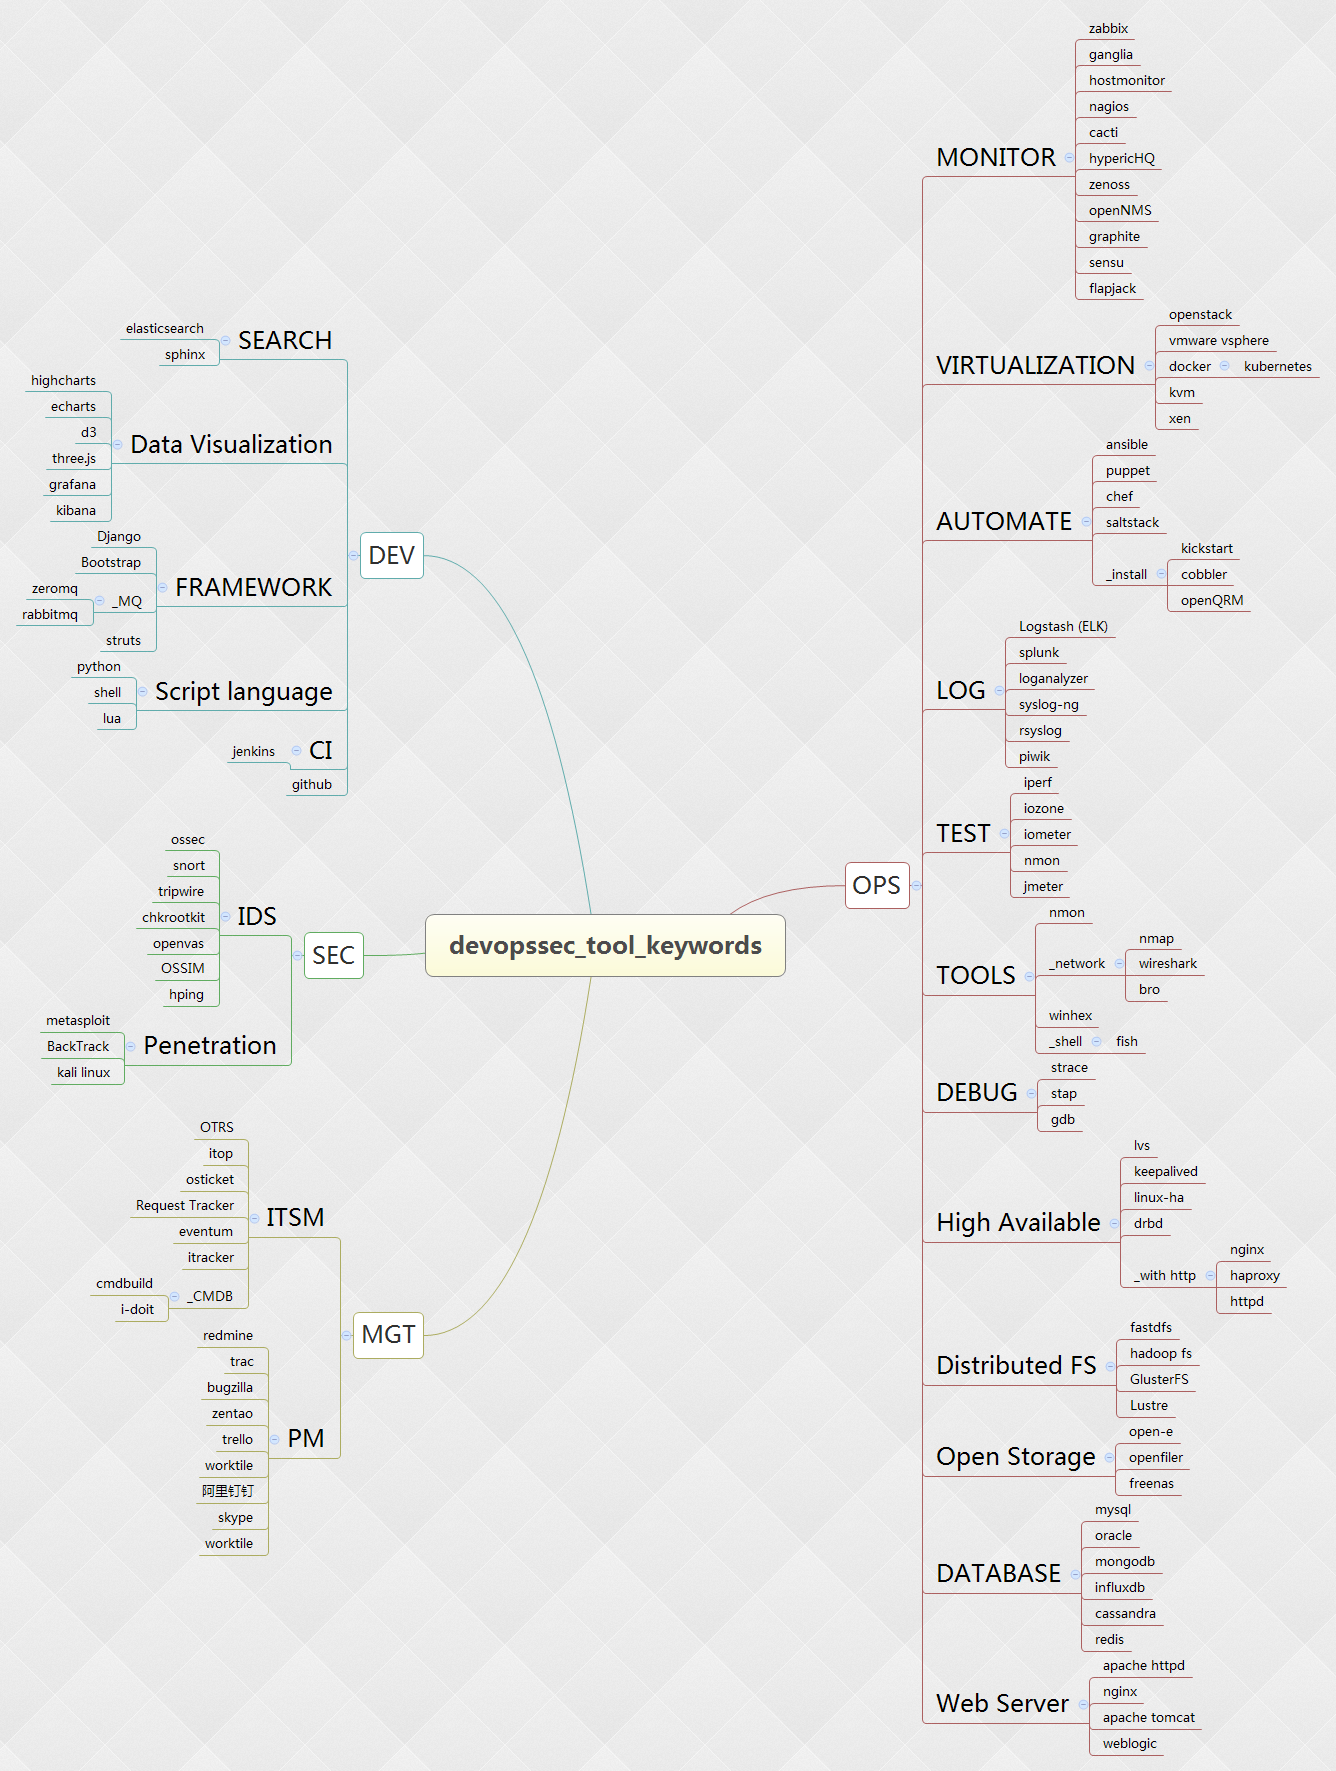
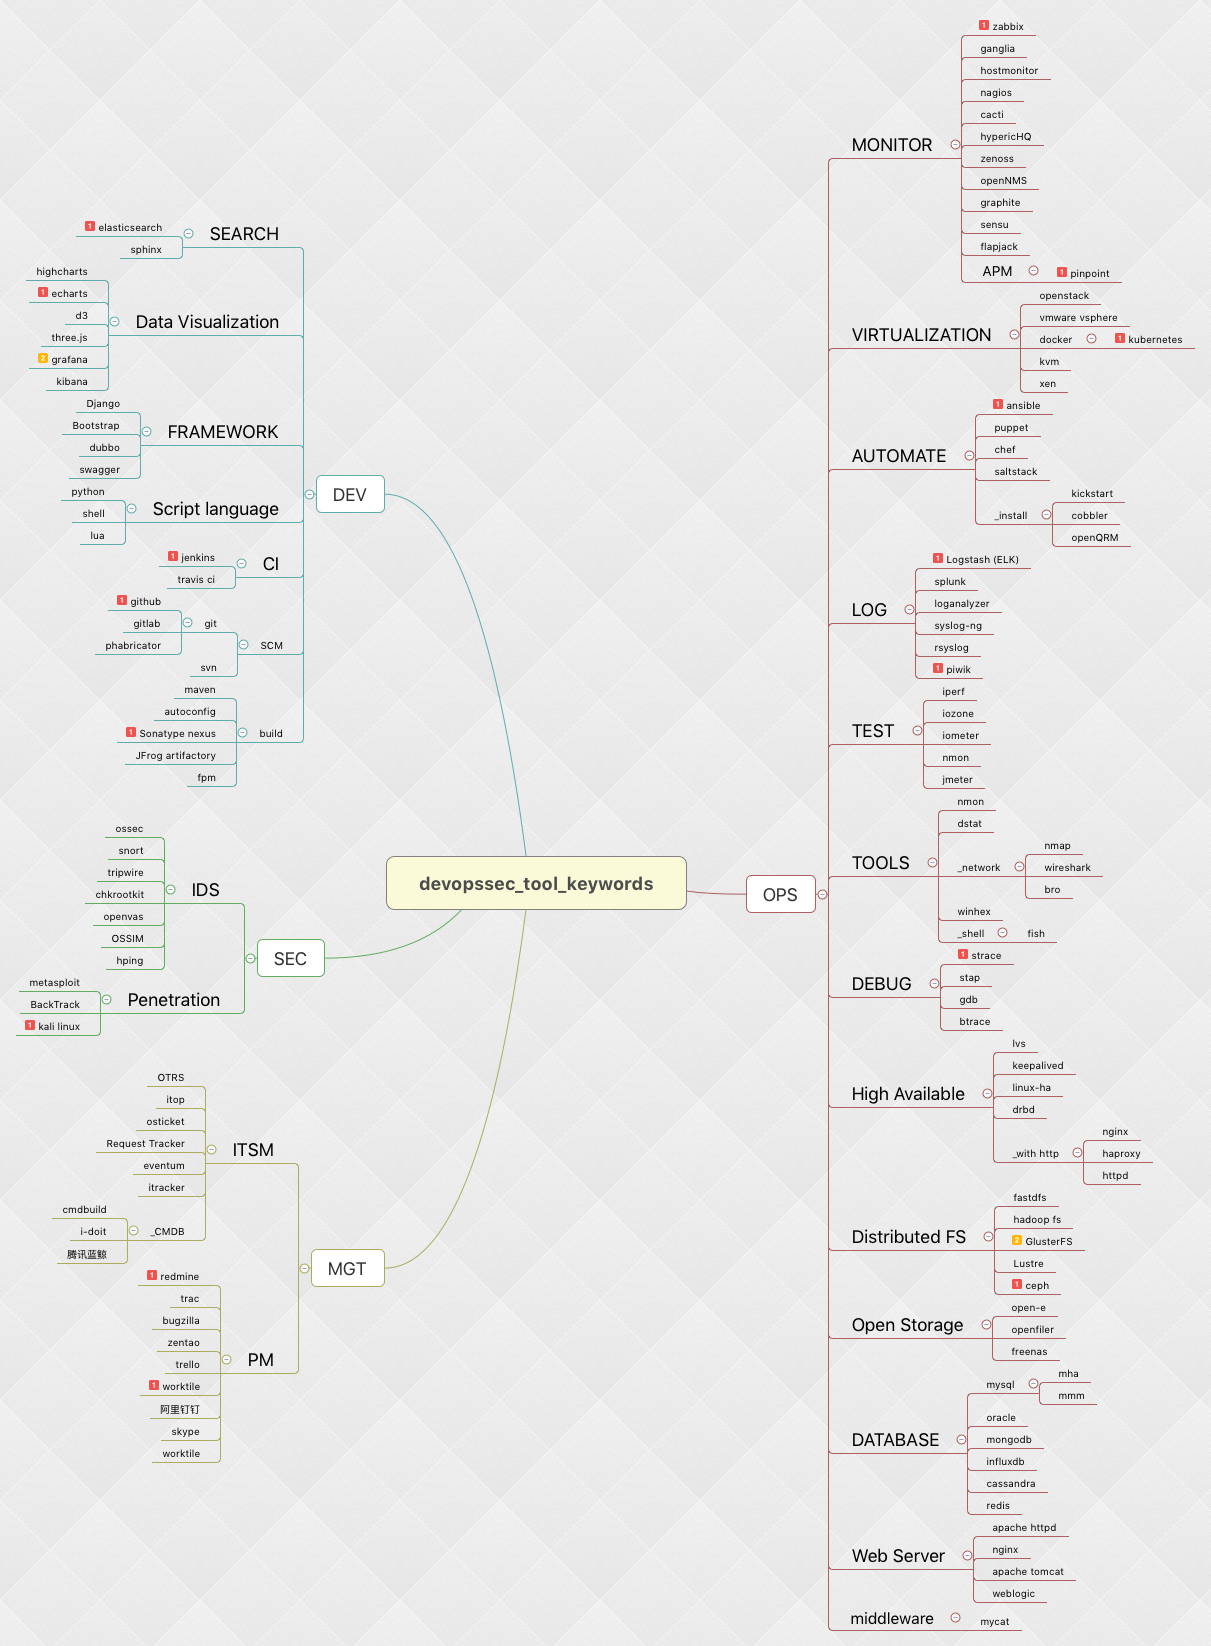
add something important

diff --git a/devopssec_tool_keywords.html b/devopssec_tool_keywords.html
@@ -51,6 +51,12 @@
 <a name="7ivga1nesuqrhmdmjilibfqc0o">&nbsp;&nbsp;flapjack</a>
 </h3>
 <h3 class="topic">
+<a name="1o2cg05qh34l468o80p8sjhrn0">&nbsp;&nbsp;APM</a>
+</h3>
+<h3 class="topic">
+<a name="4i2glctt984ebtide26ggarelb">&nbsp;&nbsp;&nbsp;pinpoint</a>
+</h3>
+<h3 class="topic">
 <a name="2sc99hpu3pvpmk1g2rm5ajl2i3">&nbsp;VIRTUALIZATION</a>
 </h3>
 <h3 class="topic">
@@ -144,6 +150,9 @@
 <a name="1mobp1k504h1pk70rlisct050n">&nbsp;&nbsp;nmon</a>
 </h3>
 <h3 class="topic">
+<a name="0tg5v2gbku776hr85kv4g4kvpq">&nbsp;&nbsp;dstat</a>
+</h3>
+<h3 class="topic">
 <a name="2eu53hqbbi46evnptcko3mf2j5">&nbsp;&nbsp;_network</a>
 </h3>
 <h3 class="topic">
@@ -175,6 +184,9 @@
 </h3>
 <h3 class="topic">
 <a name="46g086sgtlt0312b8b82qrlpgb">&nbsp;&nbsp;gdb</a>
+</h3>
+<h3 class="topic">
+<a name="1n6aviprnhtvo14vbf70lorf07">&nbsp;&nbsp;btrace</a>
 </h3>
 <h3 class="topic">
 <a name="58g1vovs9o0guie40eql1ggvbr">&nbsp;High Available</a>
@@ -219,6 +231,9 @@
 <a name="4vok2r0mgau3np4nafsncnhkno">&nbsp;&nbsp;Lustre</a>
 </h3>
 <h3 class="topic">
+<a name="0phm6ipm4911vd8qgkrjo3ru7s">&nbsp;&nbsp;ceph</a>
+</h3>
+<h3 class="topic">
 <a name="55dnfid2flst2svn65cho4n57r">&nbsp;Open Storage</a>
 </h3>
 <h3 class="topic">
@@ -235,6 +250,12 @@
 </h3>
 <h3 class="topic">
 <a name="6iq3hvlnttihkv68g4dnclo6t2">&nbsp;&nbsp;mysql</a>
+</h3>
+<h3 class="topic">
+<a name="1dfhbdh7g1fbjkq244mo1cg92f">&nbsp;&nbsp;&nbsp;mha</a>
+</h3>
+<h3 class="topic">
+<a name="67vtks93b7q5rlf4omolvilft5">&nbsp;&nbsp;&nbsp;mmm</a>
 </h3>
 <h3 class="topic">
 <a name="4qekp9g0kok8f77aj0a812fnum">&nbsp;&nbsp;oracle</a>
@@ -265,6 +286,12 @@
 </h3>
 <h3 class="topic">
 <a name="2jbu52cdqmkobtt4m5d975475q">&nbsp;&nbsp;weblogic</a>
+</h3>
+<h3 class="topic">
+<a name="1o7cipmvlkgbc3hl5k9r5vlldf">&nbsp;middleware</a>
+</h3>
+<h3 class="topic">
+<a name="00qkrkp1kte2qo3bcb2p0p4q1u">&nbsp;&nbsp;mycat</a>
 </h3>
 <h2 class="topic">
 <a name="1jngas0d6jgpqmkm4cdhr7q872">MGT</a>
@@ -298,6 +325,9 @@
 </h3>
 <h3 class="topic">
 <a name="6gseu80qcnj5c5b93l7s3udm0k">&nbsp;&nbsp;&nbsp;i-doit</a>
+</h3>
+<h3 class="topic">
+<a name="3vlhvpovkoakau4eg41ad0i6ic">&nbsp;&nbsp;&nbsp;腾讯蓝鲸</a>
 </h3>
 <h3 class="topic">
 <a name="24seop3s3o01hs2jcopkomcsmh">&nbsp;PM</a>
@@ -411,16 +441,10 @@
 <a name="6qgfmu7a2s82tatgj5i1c8ahtd">&nbsp;&nbsp;Bootstrap</a>
 </h3>
 <h3 class="topic">
-<a name="66ld3vodf6kvp6vu221biekv1m">&nbsp;&nbsp;_MQ</a>
+<a name="7q668q29dgsithsj2vg8f29h81">&nbsp;&nbsp;dubbo</a>
 </h3>
 <h3 class="topic">
-<a name="4oubj0rd98g6vstsirbesq3gqp">&nbsp;&nbsp;&nbsp;zeromq</a>
-</h3>
-<h3 class="topic">
-<a name="03v4sr0gb1ifuhsb2ih2nhbfc9">&nbsp;&nbsp;&nbsp;rabbitmq</a>
-</h3>
-<h3 class="topic">
-<a name="3d0b3rngkqkrpe2b4nja245rii">&nbsp;&nbsp;struts</a>
+<a name="3d0b3rngkqkrpe2b4nja245rii">&nbsp;&nbsp;swagger</a>
 </h3>
 <h3 class="topic">
 <a name="7fvtdcnghq6jkvmmvu6ape848a">&nbsp;Script language</a>
@@ -441,7 +465,43 @@
 <a name="2lvqm2e2j08jmu5dmpho87k6pb">&nbsp;&nbsp;jenkins</a>
 </h3>
 <h3 class="topic">
-<a name="6par7p8j70dk0ocp9anqt7faet">&nbsp;github</a>
+<a name="6j29kahee82tmq6edrhf0j9mvh">&nbsp;&nbsp;travis ci</a>
+</h3>
+<h3 class="topic">
+<a name="0jkroocgvikhpttl1qln4ol5e5">&nbsp;SCM</a>
+</h3>
+<h3 class="topic">
+<a name="6par7p8j70dk0ocp9anqt7faet">&nbsp;&nbsp;git</a>
+</h3>
+<h3 class="topic">
+<a name="25vbcrufssbbt2872oo36rnjr1">&nbsp;&nbsp;&nbsp;github</a>
+</h3>
+<h3 class="topic">
+<a name="3dqbgetcgjov17nor92j0dhtr0">&nbsp;&nbsp;&nbsp;gitlab</a>
+</h3>
+<h3 class="topic">
+<a name="64knjaf2p70llfsc217pkq1mbc">&nbsp;&nbsp;&nbsp;phabricator</a>
+</h3>
+<h3 class="topic">
+<a name="6k3aul7rnke890qogl0rr7omvo">&nbsp;&nbsp;svn</a>
+</h3>
+<h3 class="topic">
+<a name="69le370b12nd7gm5spn5piijhc">&nbsp;build</a>
+</h3>
+<h3 class="topic">
+<a name="5cip64pknq06a7eb4omi8ijugu">&nbsp;&nbsp;maven</a>
+</h3>
+<h3 class="topic">
+<a name="71a0dnv0qotj1vhj2ojap43mtp">&nbsp;&nbsp;autoconfig</a>
+</h3>
+<h3 class="topic">
+<a name="0m46vms2qmni45ukpp2ual7blt">&nbsp;&nbsp;Sonatype nexus</a>
+</h3>
+<h3 class="topic">
+<a name="0kpcv4229510co8c863ckj74tq">&nbsp;&nbsp;JFrog artifactory</a>
+</h3>
+<h3 class="topic">
+<a name="43u8sueedhnjako4loks4t2c43">&nbsp;&nbsp;fpm</a>
 </h3>
 </body>
 </html>
